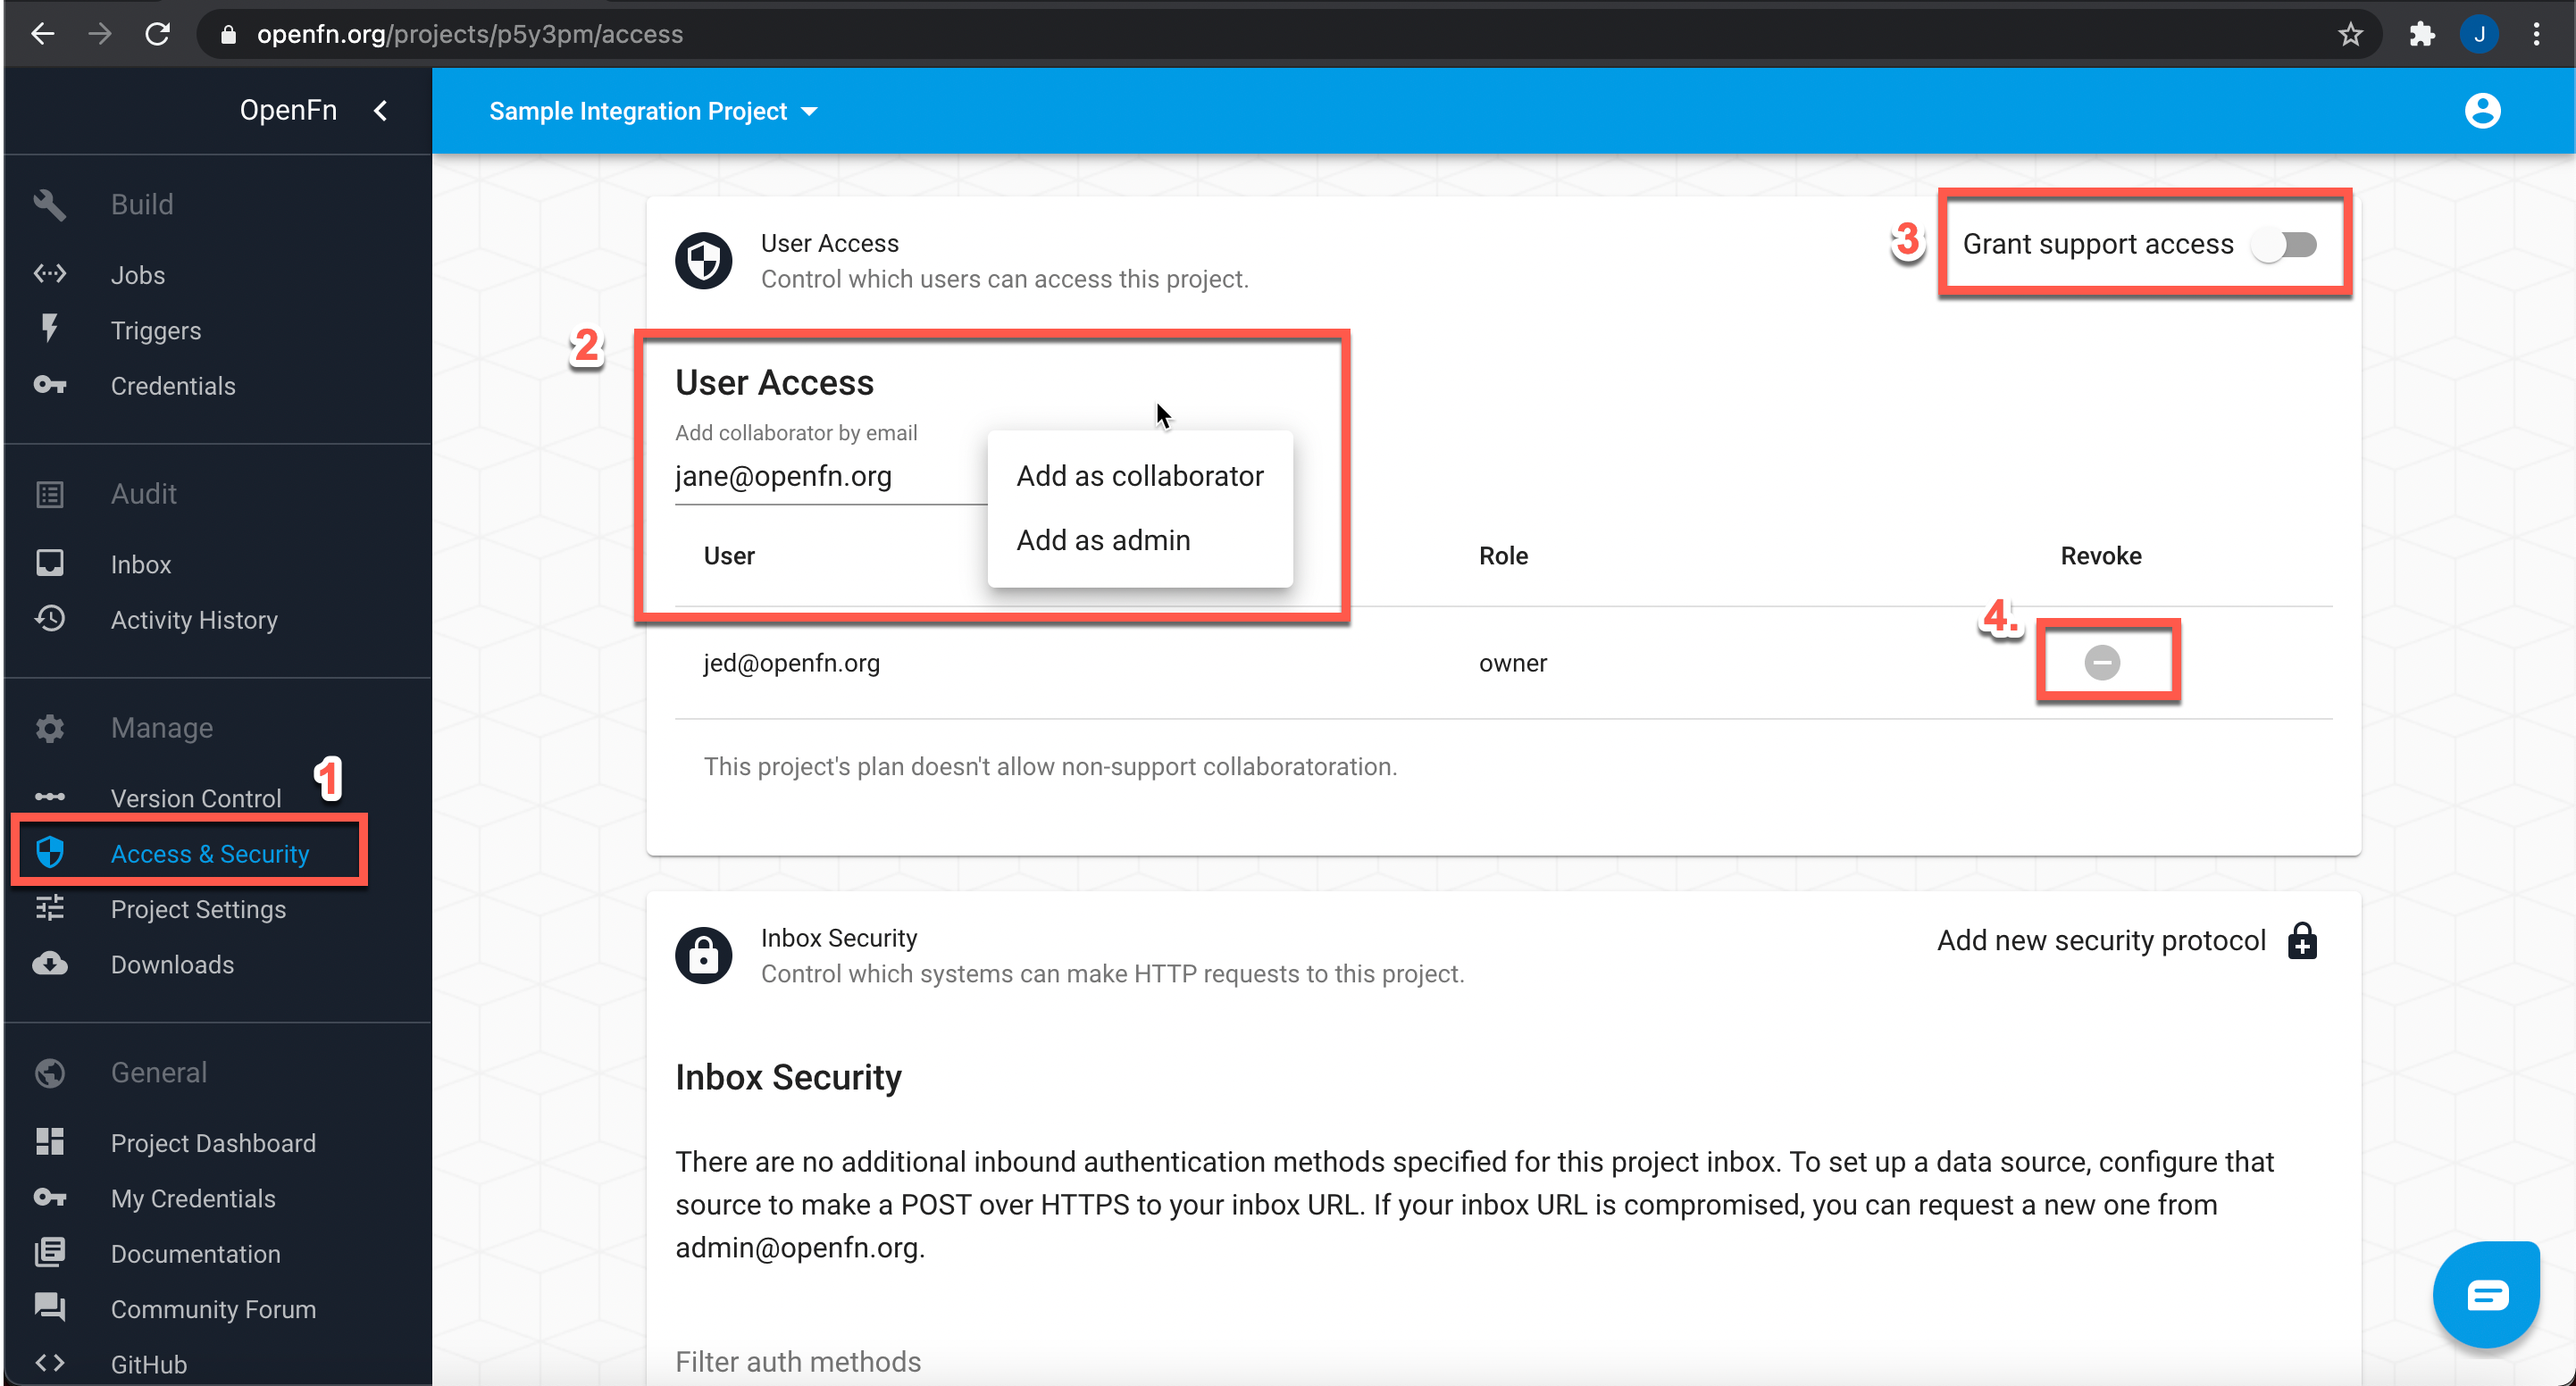
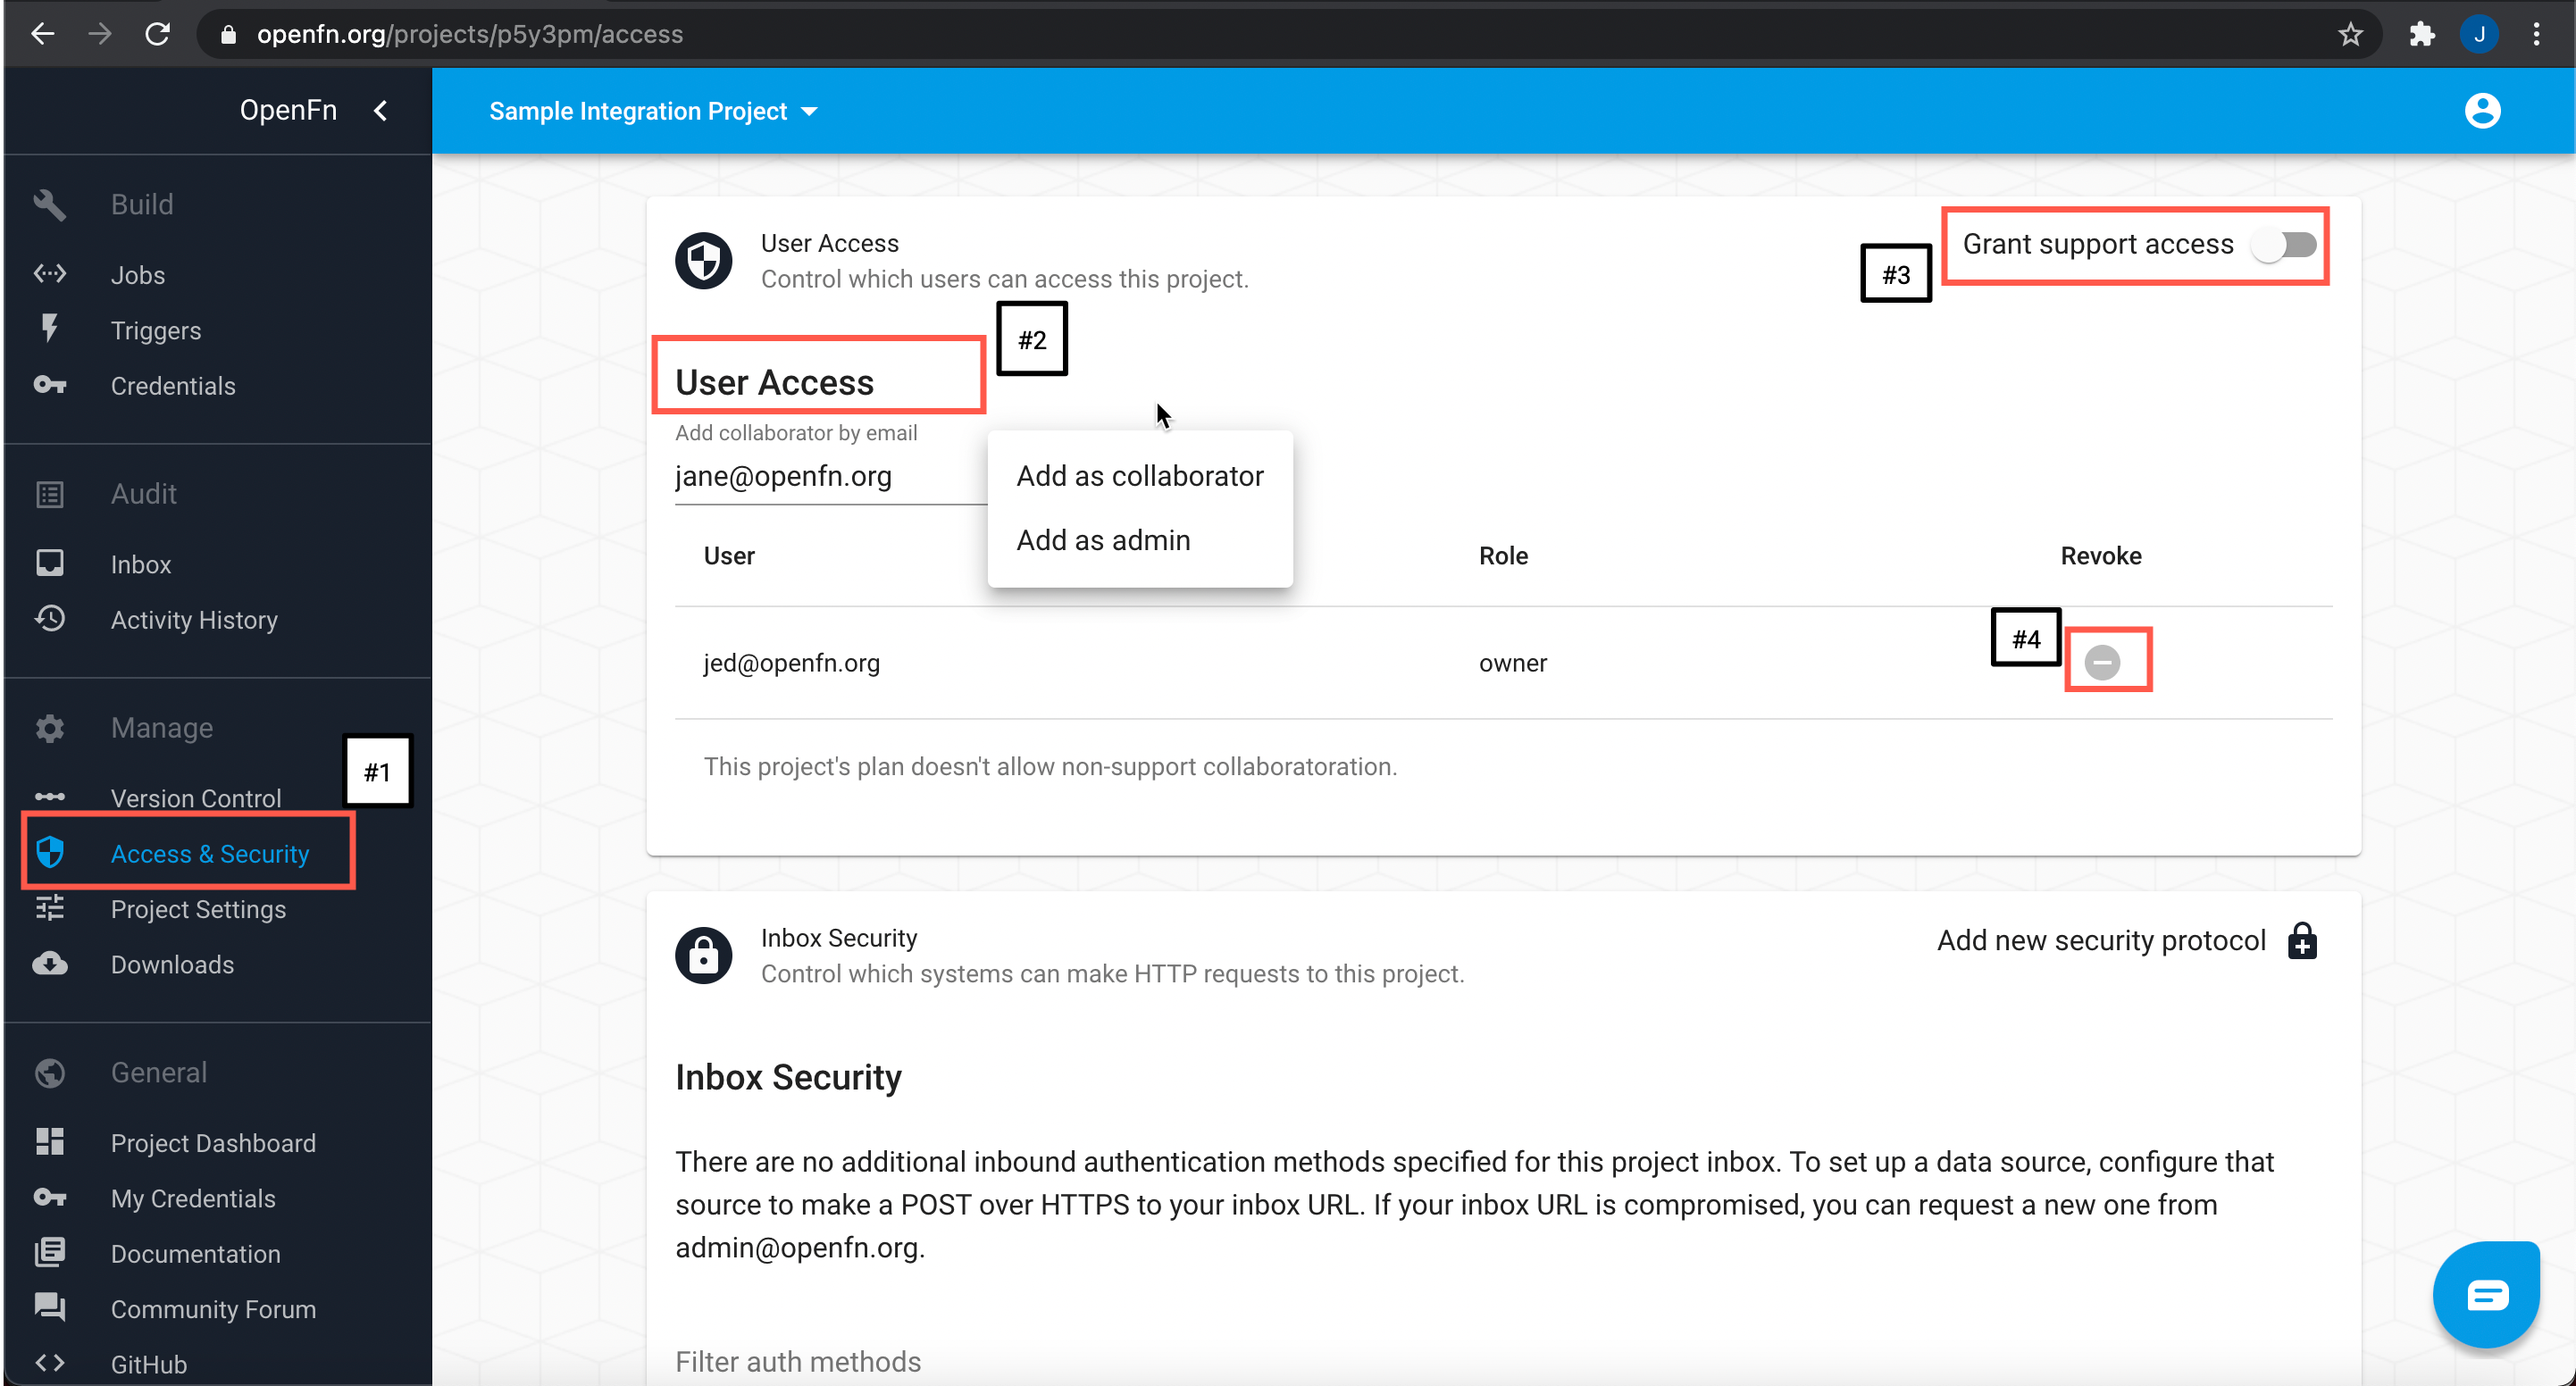
worked in all of the changes discussed during our stand-up today. let me know what you think.

diff --git a/docs/manage/platform-mgmt.md b/docs/manage/platform-mgmt.md
@@ -158,27 +158,50 @@ You can now download and review OpenFn message data by exporting to a CSV file.
 
 (work in progress)
 
-## Add / remove collaborators
+## Access & Security
 
-You can add collaborators to your project by:
+This section covers the **Access & Security** features each OpenFn project has.
+To explore these features, on the left hand navigation ribbon click on the
+**Access & Security** tab (#1).
 
-1. Navigate to your project's **Access & Security** page (#1)
+_Please refer to the screenshot below for help navigating the functionality of
+this page._
 
-2. Enter the e-mail address of your collaborator in the "Add collaborator by
-   email" field. Note that you will need to select "colleague" or "collaborator"
-   to add him/her to the project (#2)
-   <!-- TODO: @Taylor please write what each access level gives you. As I recall a collaborator has same access as an admin with the only difference being billing stuff right? -->
+![Access&Security Circled](/img/access_security1.png)
 
-3. To grant OpenFn Implementation Specialists support access to your project
-   enable the **Grant support access** toggle (#3).
+### User Access
 
-4. To revoke collaborator access simply click on the **Revoke** button (#4)
+OpenFn provides users with the ability to **add collaborator access**, **revoke
+collaborator access**, and, in the event you get stuck and need help from an
+implementation specialist, **grant OpenFn support access**.
 
-   ![Access&Security Circled](/img/access_security_collaboration1.png)
+#### Add collaborator access
 
-<!-- TODO: @Jed -->
+To add collaborator access to your project from the **Access & Security** page:
 
-## Inbox Security
+- Enter the e-mail address of your collaborator in the "Add collaborator by
+email" field. Note that you will need to select "add as collaborator," or add as
+administrator" to add him/her to the project. See the screenshot above for
+reference (#2).
+<!-- TODO: @Taylor the only difference between collaborator and admin is billing access right?z -->
+
+#### Revoke collaborator access
+
+To revoke collaborator access to your project from the **Access & Security**
+page:
+
+- Find the collaborator's name in the **User** list and in the **Revoke** column
+  click on the on the **Revoke** button. See the screenshot above for reference
+  (#3).
+
+#### Grant OpenFn support access
+
+To add OpenFn support team's access to your project from the **Access &
+Security** page:
+
+- Enable the **Grant support access** toggle (#4).
+
+### Inbox Security
 
 OpenFn project administrators can choose to configure additional authentication
 for any inbound requests made to the project's inbox URL. In the "Access &
